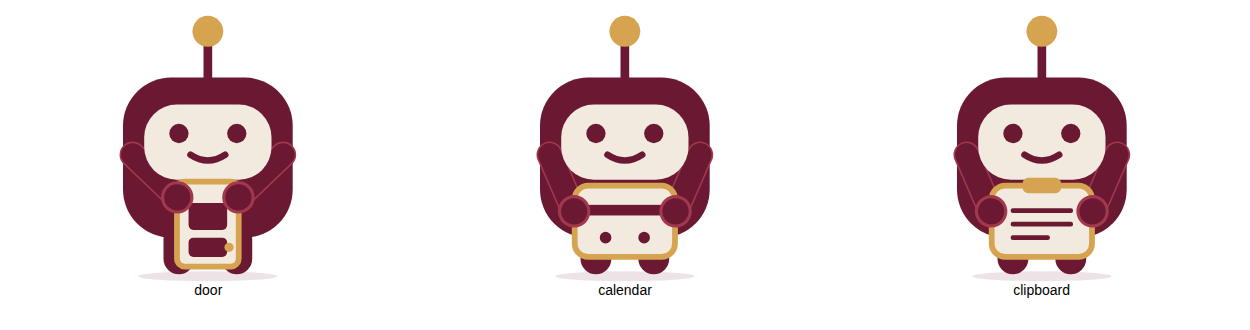
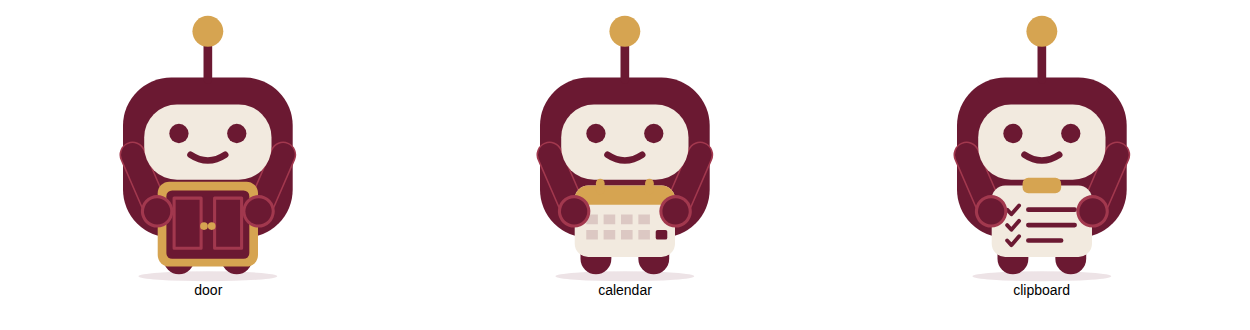
feat(mascot): implement the nine-pose sheet on the shared holding system
Idle relaxed, wave (right arm, happy eyes, gold sparks), attend (arms open, sparks), door/calendar/clipboard two-handed on one footprint,
key/wrench/badge held by the left carrier hand. Character, chest pill, mappings and behaviour unchanged; the sheet's RB logo and
proportions are not copied. Browser checks cover hand contact, grip continuity, uncovered faceplate and the greeting poses.

diff --git a/public/css/mascot.css b/public/css/mascot.css
@@ -31,62 +31,73 @@
 .rbm-hand { fill: var(--rb-color-maroon); opacity: 0; }
 .rbm-hand-edge { fill: var(--rb-color-accent); opacity: 0; }
 .rbm-limb-edge { stroke: var(--rb-color-accent); stroke-width: 13.6; stroke-linecap: round; opacity: 0; }
-.rbm-hand-ball { fill: var(--rb-color-gold); opacity: 0; }
 .rbm-mouth { fill: none; stroke: var(--rb-color-maroon); stroke-width: 3.4; stroke-linecap: round; }
 .rbm-frame { fill: none; stroke: var(--rb-color-gold); stroke-width: 3; }
 .rbm-gold-edge { stroke: var(--rb-color-gold); stroke-width: 3; }
 .rbm-line { fill: none; stroke: var(--rb-color-maroon); stroke-width: 2.4; stroke-linecap: round; }
-.rbm-keyring { fill: none; stroke: var(--rb-color-gold); stroke-width: 4; }
-.rbm-keyshaft { fill: none; stroke: var(--rb-color-gold); stroke-width: 4; stroke-linecap: round; }
+.rbm-arc { fill: none; stroke: var(--rb-color-maroon); stroke-width: 3.2; stroke-linecap: round; }
+.rbm-sparks { opacity: 0; }
+.rbm-sparks path { fill: none; stroke: var(--rb-color-gold); stroke-width: 3.2; stroke-linecap: round; }
+.rbm-panel { fill: none; stroke: var(--rb-color-accent); stroke-width: 1.6; stroke-linejoin: round; }
+.rbm-cells { fill: var(--rb-color-maroon); opacity: .16; }
+.rbm-tick { fill: none; stroke: var(--rb-color-maroon); stroke-width: 2; stroke-linecap: round; stroke-linejoin: round; }
+.rbm-keyring { fill: none; stroke: var(--rb-color-gold); stroke-width: 4.5; }
+.rbm-keyshaft { fill: none; stroke: var(--rb-color-gold); stroke-width: 4.5; stroke-linecap: round; }
 
-/* Pose parameters: clockwise degrees for each arm about its shoulder, and a tiny glance. Everything not listed stays at rest.
-   idle = arms out at the sides (the reference); wave raises the left arm (with the gold hand); attend is a neutral half-raised arm.
-   Holding poses use ONE system (arm length 32, tip = shoulder + 32 * (-sin a, cos a)):
-   - two-handed (calendar, clipboard: card x 44..96; door: x 54..86): both arms angle inward so the hands land on the object's side
-     edges: -23.4 / 23.4deg puts the hands at (43.7, 109.4) and (96.3, 109.4); -46.3 / 46.3deg puts them at (54.1, 102.1) and (85.9, 102.1);
-   - one-handed (key, tool, badge): the right hand is the carrier at (93.8, 108.1) (28.4deg) and the left arm rests at its idle angle. */
-.rb-mascot { --rbm-duration: 180ms; --rbm-ease: cubic-bezier(.4, 0, .2, 1); --rbm-l: 35deg; --rbm-r: -35deg; --rbm-ex: 0px; --rbm-smile: 1; }
-.rb-mascot[data-pose="attend"] { --rbm-r: -62deg; }
-.rb-mascot[data-pose="wave"] { --rbm-l: 156deg; --rbm-smile: 1.18; }
-.rb-mascot:is([data-pose="calendar"], [data-pose="clipboard"]) { --rbm-l: -23.4deg; --rbm-r: 23.4deg; }
-.rb-mascot[data-pose="door"] { --rbm-l: -46.3deg; --rbm-r: 46.3deg; }
-.rb-mascot:is([data-pose="key"], [data-pose="tool"], [data-pose="badge"]) { --rbm-r: 28.4deg; }
+/* Pose parameters (the nine compositions of docs/frontend/ReserveBot-Mascot-Poses.png): clockwise degrees for each arm about its
+   shoulder, and the mouth. Everything not listed stays at rest. Arm length 32; tip = shoulder + 32 * (-sin a, cos a).
+   - idle: arms relaxed at the sides, no hands shown.
+   - wave: the right arm raised (hand, gold sparks, happy eyes); attend: both arms opened wide (hands, sparks, happy eyes).
+   - two-handed (calendar, clipboard, door share one footprint, x 44..96): both arms angle inward so the hands land on the side
+     edges: -23.4 / 23.4deg puts them at (43.7, 109.4) and (96.3, 109.4);
+   - one-handed (key, tool, badge): the LEFT hand carries at (46.2, 108.1) (-28.4deg); the right arm rests at its idle angle. */
+.rb-mascot { --rbm-duration: 180ms; --rbm-ease: cubic-bezier(.4, 0, .2, 1); --rbm-l: 20deg; --rbm-r: -20deg; --rbm-smile: 1; }
+.rb-mascot[data-pose="wave"] { --rbm-r: -150deg; --rbm-smile: 1.18; }
+.rb-mascot[data-pose="attend"] { --rbm-l: 100deg; --rbm-r: -100deg; --rbm-smile: 1.18; }
+.rb-mascot:is([data-pose="calendar"], [data-pose="clipboard"], [data-pose="door"]) { --rbm-l: -23.4deg; --rbm-r: 23.4deg; }
+.rb-mascot:is([data-pose="key"], [data-pose="tool"], [data-pose="badge"]) { --rbm-l: -28.4deg; }
 
 .rbm-arm--l { transform: rotate(var(--rbm-l)); transform-origin: 31px 80px; }
 .rbm-arm--r { transform: rotate(var(--rbm-r)); transform-origin: 109px 80px; }
-.rbm-eyes { transform: translateX(var(--rbm-ex)); }
+.rbm-eyes--happy, .rbm-sparks { opacity: 0; }
 .rbm-mouth { transform: scaleX(var(--rbm-smile)); transform-origin: 70px 77px; }
 .rbm-prop { opacity: 0; }
 .rbm-pill { opacity: 1; }
 
-.rb-mascot[data-pose="wave"] .rbm-hand-ball,
 .rb-mascot[data-pose="door"] .rbm-prop--door,
 .rb-mascot[data-pose="calendar"] .rbm-prop--calendar,
 .rb-mascot[data-pose="clipboard"] .rbm-prop--clipboard,
 .rb-mascot[data-pose="key"] .rbm-prop--key,
 .rb-mascot[data-pose="tool"] .rbm-prop--tool,
 .rb-mascot[data-pose="badge"] .rbm-prop--badge { opacity: 1; }
-/* Hands: the right hand grips in every holding pose, the left only when the object is held with two hands. The accent edge (on the
-   hand and along the limb) lets an arm that lies over the same-coloured body stay readable. */
-.rb-mascot:is([data-pose="calendar"], [data-pose="clipboard"], [data-pose="door"], [data-pose="key"], [data-pose="tool"], [data-pose="badge"]) .rbm-arm--r :is(.rbm-hand, .rbm-hand-edge, .rbm-limb-edge),
-.rb-mascot:is([data-pose="calendar"], [data-pose="clipboard"], [data-pose="door"]) .rbm-arm--l :is(.rbm-hand, .rbm-hand-edge, .rbm-limb-edge) { opacity: 1; }
+/* Eyes and sparks: the greeting poses (wave, attend) smile with happy arcs and throw gold sparks. */
+.rb-mascot:is([data-pose="wave"], [data-pose="attend"]) .rbm-eyes--open { opacity: 0; }
+.rb-mascot:is([data-pose="wave"], [data-pose="attend"]) .rbm-eyes--happy { opacity: 1; }
+.rb-mascot:is([data-pose="wave"], [data-pose="attend"]) .rbm-sparks--r,
+.rb-mascot[data-pose="attend"] .rbm-sparks--l { opacity: 1; }
+/* Hands: two-handed poses show both, one-handed poses the left (carrier), wave the raised right hand and attend both open hands.
+   The accent edge (on the hand and along the limb) is only for holding poses, where an arm lies over the same-coloured body. */
+.rb-mascot:is([data-pose="calendar"], [data-pose="clipboard"], [data-pose="door"]) :is(.rbm-hand, .rbm-hand-edge, .rbm-limb-edge),
+.rb-mascot:is([data-pose="key"], [data-pose="tool"], [data-pose="badge"]) .rbm-arm--l :is(.rbm-hand, .rbm-hand-edge, .rbm-limb-edge),
+.rb-mascot[data-pose="wave"] .rbm-arm--r .rbm-hand,
+.rb-mascot[data-pose="attend"] .rbm-hand { opacity: 1; }
 .rb-mascot:is([data-pose="door"], [data-pose="key"], [data-pose="tool"], [data-pose="badge"]) .rbm-pill { opacity: 0; }
 
 /* Only transform and opacity move, and only for a short moment when the pose changes. The feet, body, head and footer never
    move, so the figure stays planted, and there is no idle movement at all. */
-.rbm-arm, .rbm-eyes, .rbm-mouth { transition: transform var(--rbm-duration) var(--rbm-ease); }
-.rbm-prop, .rbm-hand, .rbm-hand-edge, .rbm-limb-edge, .rbm-hand-ball, .rbm-pill { transition: opacity var(--rbm-duration) var(--rbm-ease); }
+.rbm-arm, .rbm-mouth { transition: transform var(--rbm-duration) var(--rbm-ease); }
+.rbm-prop, .rbm-hand, .rbm-hand-edge, .rbm-limb-edge, .rbm-pill, .rbm-eyes--open, .rbm-eyes--happy, .rbm-sparks { transition: opacity var(--rbm-duration) var(--rbm-ease); }
 @media (prefers-reduced-motion: no-preference) {
   /* One friendly wave (two swings) when the wave pose is chosen by hovering; mascot.js sets data-ready only after the first
      frame, so arriving on the Home page does not wave on its own. */
-  .rb-mascot[data-ready][data-pose="wave"] .rbm-arm--l { animation: rbm-wave 520ms var(--rbm-ease) var(--rbm-duration) 1; }
+  .rb-mascot[data-ready][data-pose="wave"] .rbm-arm--r { animation: rbm-wave 520ms var(--rbm-ease) var(--rbm-duration) 1; }
 }
 @keyframes rbm-wave {
-  25% { transform: rotate(calc(var(--rbm-l) - 18deg)); }
-  50% { transform: rotate(var(--rbm-l)); }
-  75% { transform: rotate(calc(var(--rbm-l) - 18deg)); }
+  25% { transform: rotate(calc(var(--rbm-r) + 18deg)); }
+  50% { transform: rotate(var(--rbm-r)); }
+  75% { transform: rotate(calc(var(--rbm-r) + 18deg)); }
 }
 /* Reduced motion: poses still change (they are useful), but instantly and without any arm movement. */
 @media (prefers-reduced-motion: reduce) {
-  .rbm-arm, .rbm-eyes, .rbm-mouth, .rbm-prop, .rbm-hand, .rbm-hand-edge, .rbm-limb-edge, .rbm-hand-ball, .rbm-pill { transition: none; animation: none; }
+  .rbm-arm, .rbm-eyes, .rbm-mouth, .rbm-prop, .rbm-hand, .rbm-hand-edge, .rbm-limb-edge, .rbm-pill, .rbm-eyes--open, .rbm-eyes--happy, .rbm-sparks { transition: none; animation: none; }
 }

diff --git a/resources/views/components/ui/mascot.blade.php b/resources/views/components/ui/mascot.blade.php
@@ -1,22 +1,21 @@
 @props(['pose' => 'idle'])
-{{-- ReserveBot's sidebar mascot: purely decorative, no behaviour of its own. Built from docs/frontend/ReserveBot-Mascot.jpg:
-     one rounded maroon head-and-body, a cream faceplate with two round eyes and a small smile, a short antenna with a gold
-     tip, capsule arms, stubby legs and a gold chest pill. Every pose is that same figure; a pose only changes the arm
-     angles, a small prop, and (barely) where the eyes look. css/mascot.css does all of that from data-pose. The initial pose
-     is the current page's (passed in by the navigation partial, which owns the page-to-pose mapping); public/js/mascot.js
-     only swaps data-pose when a sidebar link is hovered or keyboard-focused.
-     Poses: idle, attend (neutral), wave, door, calendar, clipboard, key, tool, badge. Hidden from assistive technology,
-     never focusable, never announced.
-     Geometry (viewBox 200x140, character centred on x=100 via the translate): body 26..114 x 40..123, shoulders (31,80)
-     and (109,80), arm length 32, feet on y=142.
-     One holding system. Limbs are drawn over the body but under the faceplate (maroon on maroon is invisible, so idle still reads as
-     the reference's arms behind the body), and every arm ends in a hand (.rbm-hand, r 6.8). The hand is a second group with the same classes and
-     angle variable as the limb, drawn after the prop, so it rotates with the arm (a grip cannot detach) and sits on the object's edge.
-     Two-handed (large objects: calendar, clipboard, door): the object is centred on the torso and both hands sit on its side
-     edges (hand centres are the arm tips at the pose angle, e.g. calendar 23.4deg inward puts them on x=44 and x=96).
-     One-handed (small objects: key, tool, badge): the right hand is the carrier, always at the same anchor (94,108) (arm
-     28.4deg), the object passes through or ends at that anchor; the left arm rests at its idle angle.
-     The pose angles live in css/mascot.css and were derived from tip = shoulder + 32 * (-sin a, cos a). --}}
+{{-- ReserveBot's sidebar mascot: purely decorative, no behaviour of its own. The character comes from docs/frontend/ReserveBot-Mascot.jpg
+     (rounded maroon head-and-body, cream faceplate, two round eyes and a small smile, short antenna with a gold tip, capsule arms,
+     stubby legs, gold chest pill) and the nine pose compositions from docs/frontend/ReserveBot-Mascot-Poses.png (without that
+     sheet's RB belly logo or its changed proportions). Every pose is that same figure; a pose only changes the arm angles, which
+     hands show, a prop, the eyes (round, or happy arcs) and a few gold sparks. css/mascot.css does that from data-pose. The
+     initial pose is the current page's (passed in by the navigation partial, which owns the page-to-pose mapping);
+     public/js/mascot.js only swaps data-pose when a sidebar link is hovered or keyboard-focused.
+     Poses: idle, attend (welcome), wave, door, calendar, clipboard, key, tool, badge. Hidden from assistive technology, never
+     focusable, never announced.
+     Geometry (viewBox 200x140, character centred on x=100 via the translate): body 26..114 x 40..123, shoulders (31,80) and
+     (109,80), arm length 32, feet on y=142.
+     One holding system. Limbs are drawn over the body but under the faceplate (maroon on maroon is invisible, so idle still reads
+     like the reference's capsule arms), and every arm ends in a hand (.rbm-hand, r 6.8). The hand is a second group with the same
+     classes and angle variable as the limb, drawn after the props, so it rotates with the arm (a grip cannot detach) and sits on
+     the object's edge. Two-handed (calendar, clipboard, door: one shared footprint x 44..96): both hands on the side edges. One-handed
+     (key, tool, badge): the LEFT hand carries, always at the anchor (46.2,108.1), and key and wrench share one axis through it
+     (head/ring centre (30,88), direction (0.627, 0.779)). Tip = shoulder + 32 * (-sin a, cos a); the angles live in css/mascot.css. --}}
 <div class="rb-mascot" data-rb-mascot data-pose="{{ $pose }}" aria-hidden="true">
   <div class="rb-mascot__stage">
     <svg class="rb-mascot__art" viewBox="0 6 200 140" width="200" height="140" focusable="false" aria-hidden="true">
@@ -33,7 +32,6 @@
         <g class="rbm-arm rbm-arm--l">
           <line class="rbm-limb-edge" x1="31" y1="80" x2="31" y2="112"/>
           <line class="rbm-limb" x1="31" y1="80" x2="31" y2="112"/>
-          <circle class="rbm-hand-ball" cx="31" cy="115" r="9"/>
         </g>
         <g class="rbm-arm rbm-arm--r">
           <line class="rbm-limb-edge" x1="109" y1="80" x2="109" y2="112"/>
@@ -41,47 +39,57 @@
         </g>
 
         <rect class="rbm-cream" x="37" y="54" width="66" height="39" rx="17"/>
-        <g class="rbm-eyes">
+        <g class="rbm-eyes rbm-eyes--open">
           <circle class="rbm-maroon" cx="55" cy="69" r="5"/>
           <circle class="rbm-maroon" cx="85" cy="69" r="5"/>
+        </g>
+        <g class="rbm-eyes rbm-eyes--happy">
+          <path class="rbm-arc" d="M49.5 71.5Q55 63.5 60.5 71.5M79.5 71.5Q85 63.5 90.5 71.5"/>
         </g>
         <path class="rbm-mouth" d="M61 80Q70 86 79 80"/>
 
         <line class="rbm-aerial" x1="70" y1="16" x2="70" y2="41"/>
         <circle class="rbm-gold" cx="70" cy="16" r="8"/>
 
-        {{-- Held objects, centred on the torso (two-handed) or around the right-hand anchor (94,108) (one-handed) --}}
+        {{-- Gold sparks of the greeting poses: right side for wave, both sides for attend --}}
+        <g class="rbm-sparks rbm-sparks--r"><path d="M128 40l2.5-8M135 45l6-3.5M137 54l7 .5"/></g>
+        <g class="rbm-sparks rbm-sparks--l" transform="translate(140 0) scale(-1 1)"><path d="M128 40l2.5-8M135 45l6-3.5M137 54l7 .5"/></g>
+
+        {{-- Held objects: centred on the torso (two-handed) or on the left-hand axis (one-handed) --}}
         <g class="rbm-prop rbm-prop--door">
-          <rect class="rbm-cream rbm-gold-edge" x="54" y="94" width="32" height="44" rx="4"/>
-          <rect class="rbm-maroon" x="60" y="105" width="20" height="14" rx="2.5"/>
-          <rect class="rbm-maroon" x="60" y="123" width="20" height="10" rx="2.5"/>
-          <circle class="rbm-gold" cx="81" cy="128" r="2.4"/>
+          <rect class="rbm-gold" x="44" y="94" width="52" height="44" rx="6"/>
+          <rect class="rbm-maroon" x="48.5" y="98.5" width="43" height="35.5" rx="3"/>
+          <path class="rbm-panel" d="M52.5 102.5h14v26h-14zM73.5 102.5h14v26h-14z"/>
+          <circle class="rbm-gold" cx="68" cy="117" r="2"/>
+          <circle class="rbm-gold" cx="72" cy="117" r="2"/>
         </g>
         <g class="rbm-prop rbm-prop--calendar">
           <rect class="rbm-cream" x="44" y="96" width="52" height="37" rx="7"/>
-          <rect class="rbm-maroon" x="45.5" y="106" width="49" height="5.5"/>
-          <circle class="rbm-maroon" cx="60" cy="123" r="3"/>
-          <circle class="rbm-maroon" cx="80" cy="123" r="3"/>
-          <rect class="rbm-frame" x="44" y="96" width="52" height="37" rx="7"/>
+          <path class="rbm-gold" d="M44 103a7 7 0 0 1 7-7h38a7 7 0 0 1 7 7v3H44z"/>
+          <rect class="rbm-gold" x="55" y="92.5" width="4.5" height="8" rx="2.25"/>
+          <rect class="rbm-gold" x="80.5" y="92.5" width="4.5" height="8" rx="2.25"/>
+          <path class="rbm-cells" d="M50 111h6v5h-6zM59 111h6v5h-6zM68 111h6v5h-6zM77 111h6v5h-6zM50 119h6v5h-6zM59 119h6v5h-6zM68 119h6v5h-6zM77 119h6v5h-6z"/>
+          <rect class="rbm-maroon" x="86" y="119" width="6" height="5" rx="1"/>
         </g>
         <g class="rbm-prop rbm-prop--clipboard">
           <rect class="rbm-cream" x="44" y="96" width="52" height="37" rx="7"/>
-          <path class="rbm-line" d="M55 109h30M55 116h30M55 123h18"/>
-          <rect class="rbm-frame" x="44" y="96" width="52" height="37" rx="7"/>
+          <path class="rbm-tick" d="M52 108.5l2.2 2.4 4-4.6M52 116.5l2.2 2.4 4-4.6M52 124.5l2.2 2.4 4-4.6"/>
+          <path class="rbm-line" d="M63 108.5h24M63 116.5h24M63 124.5h17"/>
           <rect class="rbm-gold" x="60" y="92" width="20" height="8" rx="3"/>
         </g>
         <g class="rbm-prop rbm-prop--badge">
-          <rect class="rbm-cream rbm-gold-edge" x="68" y="97" width="26" height="35" rx="5"/>
-          <rect class="rbm-gold" x="76" y="94.5" width="10" height="5" rx="2.5"/>
-          <circle class="rbm-maroon" cx="81" cy="111" r="5"/>
-          <path class="rbm-maroon" d="M72.5 127a8.5 7 0 0 1 17 0z"/>
+          <rect class="rbm-cream" x="44" y="99" width="40" height="30" rx="5"/>
+          <rect class="rbm-gold" x="57" y="95.5" width="14" height="6" rx="3"/>
+          <circle class="rbm-maroon" cx="59.5" cy="111" r="4.2"/>
+          <path class="rbm-maroon" d="M53 124a6.5 5.5 0 0 1 13 0z"/>
+          <path class="rbm-line" d="M69.5 110h10M69.5 116h10"/>
         </g>
         <g class="rbm-prop rbm-prop--key">
-          <circle class="rbm-keyring" cx="59" cy="104.5" r="7"/>
-          <path class="rbm-keyshaft" d="M66 105.2L104 109.5M99 109v7M104 109.5v5"/>
+          <circle class="rbm-keyring" cx="30" cy="88" r="7.6"/>
+          <path class="rbm-keyshaft" d="M35.6 95L57.6 122.3M51.3 114.5l4.7-3.8M55.1 119.2l4.7-3.8"/>
         </g>
         <g class="rbm-prop rbm-prop--tool">
-          <g transform="translate(81.7 105.3) rotate(-76.8)">
+          <g transform="translate(38.15 98.13) rotate(-38.8) scale(1.3)">
             <rect class="rbm-cream" x="-3" y="-6" width="6" height="27" rx="3"/>
             <circle class="rbm-cream" cx="0" cy="-10" r="8.5"/>
             <rect class="rbm-maroon" x="-3.2" y="-21" width="6.4" height="11"/>
@@ -89,7 +97,7 @@
         </g>
 
         {{-- Hands: the tip of each arm, repeated here so it is drawn ON TOP of the held object. Same group classes and the same
-             angle variable as the limb, so limb and hand turn as one and a grip cannot detach. Shown only in holding poses. --}}
+             angle variable as the limb, so limb and hand turn as one and a grip cannot detach. --}}
         <g class="rbm-arm rbm-arm--l rbm-hands">
           <circle class="rbm-hand-edge" cx="31" cy="112" r="8.4"/>
           <circle class="rbm-hand" cx="31" cy="112" r="6.8"/>

diff --git a/tests/Feature/Frontend/MascotBrandTest.php b/tests/Feature/Frontend/MascotBrandTest.php
@@ -88,11 +88,14 @@ final class MascotBrandTest extends TestCase
         foreach (['attend', 'wave', 'door'] as $pose) {
             $this->assertStringContainsString("data-pose=\"$pose\"", $css, "$pose pose parameters");
         }
-        // One holding system: two-handed poses angle both arms inward onto the object's side edges, one-handed poses share one carrier hand.
-        $this->assertStringContainsString('.rb-mascot:is([data-pose="calendar"], [data-pose="clipboard"]) { --rbm-l: -23.4deg; --rbm-r: 23.4deg; }', $css);
-        $this->assertStringContainsString('.rb-mascot[data-pose="door"] { --rbm-l: -46.3deg; --rbm-r: 46.3deg; }', $css);
-        $this->assertStringContainsString('.rb-mascot:is([data-pose="key"], [data-pose="tool"], [data-pose="badge"]) { --rbm-r: 28.4deg; }', $css);
-        $this->assertStringContainsString('.rbm-arm--r :is(.rbm-hand, .rbm-hand-edge, .rbm-limb-edge)', $css, 'hands are shown only in holding poses');
+        // One holding system: two-handed poses (calendar, clipboard, door share one footprint) angle both arms inward onto the side
+        // edges; one-handed poses (key, tool, badge) share one LEFT carrier hand; the greeting poses raise the right arm / open both.
+        $this->assertStringContainsString('.rb-mascot:is([data-pose="calendar"], [data-pose="clipboard"], [data-pose="door"]) { --rbm-l: -23.4deg; --rbm-r: 23.4deg; }', $css);
+        $this->assertStringContainsString('.rb-mascot:is([data-pose="key"], [data-pose="tool"], [data-pose="badge"]) { --rbm-l: -28.4deg; }', $css);
+        $this->assertStringContainsString('.rb-mascot[data-pose="wave"] { --rbm-r: -150deg;', $css);
+        $this->assertStringContainsString('.rb-mascot[data-pose="attend"] { --rbm-l: 100deg; --rbm-r: -100deg;', $css);
+        $this->assertStringContainsString('--rbm-l: 20deg; --rbm-r: -20deg;', $css, 'idle: relaxed arms');
+        $this->assertStringContainsString('.rbm-arm--l :is(.rbm-hand, .rbm-hand-edge, .rbm-limb-edge)', $css, 'one-handed poses show only the carrier hand');
         // One body, built once: head-and-body silhouette, faceplate, legs, antenna, chest pill and two eyes, however many poses.
         $this->assertSame(1, substr_count($svg, 'class="rbm-maroon" x="26" y="40" width="88" height="83" rx="25"'), 'one rounded head/body silhouette');
         $this->assertSame(1, substr_count($svg, 'class="rbm-cream" x="37" y="54" width="66" height="39" rx="17"'), 'one cream faceplate');
@@ -100,6 +103,9 @@ final class MascotBrandTest extends TestCase
         $this->assertSame(2, substr_count($svg, 'cy="69" r="5"'), 'two simple round eyes');
         $this->assertSame(1, substr_count($svg, 'class="rbm-gold rbm-pill"'), 'one gold chest accent');
         $this->assertSame(1, substr_count($svg, 'class="rbm-aerial"'), 'one short antenna');
+        $this->assertStringNotContainsString('>RB<', $svg, 'the pose sheet RB belly logo is not part of the character');
+        $this->assertStringContainsString('rbm-eyes--happy', $svg, 'happy eyes for the greeting poses');
+        $this->assertStringNotContainsString('hand-ball', $svg, 'the old gold wave hand is gone: the raised arm ends in the shared hand');
         $this->assertSame(4, substr_count($svg, 'class="rbm-arm '), 'two limbs and two hands, all posed by the same two angle variables');
         $this->assertSame(2, substr_count($svg, 'rbm-arm rbm-arm--l rbm-hands') + substr_count($svg, 'rbm-arm rbm-arm--r rbm-hands'), 'each hand turns with its own arm');
         $this->assertSame(2, substr_count($svg, 'class="rbm-hand" '), 'one hand per arm, the same size');

diff --git a/docs/frontend/MASCOT_AND_TYPOGRAPHY.md b/docs/frontend/MASCOT_AND_TYPOGRAPHY.md
@@ -7,12 +7,17 @@ Two small, independent changes. Neither needs the global motion layer, view tran
   head/body, cream faceplate, two round eyes, a small smile, antenna with a gold tip, capsule arms, stubby legs, gold chest pill.
   Nine poses share that figure; a pose only changes arm angles, one prop and a 1.6px glance. Side-by-side proof:
   `docs/frontend/mascot-evidence/`.
+- **Nine poses from `docs/frontend/ReserveBot-Mascot-Poses.png`** (compositions only; its RB belly logo and its changed proportions are
+  not used, the gold chest pill stays): idle (relaxed arms), wave (right arm raised, happy eyes, gold sparks), door / calendar /
+  clipboard (held in both hands on one shared footprint), key / wrench / ID badge (held in the left hand), attend (arms opened wide, happy
+  eyes, sparks, no object). Differences from the sheet: attend has no belly check (it is a pose without an accessory), the objects are
+  simplified for 90px, and the arms are straight capsules (the sheet bends them).
 - **One holding system**: limbs are drawn over the body and under the faceplate; each arm has a matching hand group (same classes and
-  angle variable, drawn after the props) so a grip turns with its arm and cannot detach. Two-handed objects (calendar, clipboard, door) sit
-  on the torso with both hands on the side edges (arms -23.4/23.4deg, door -46.3/46.3deg); one-handed objects (key, tool, badge) share one
-  carrier hand at (94,108) (right arm 28.4deg) while the left arm rests. A thin accent edge on hands and limbs keeps an arm readable over
-  the same-coloured body. Idle, wave and attend show no hands and still match the reference; the calendar differs from the reference
-  only in being held. Evidence: `all-poses-3x.png`, `door-calendar-clipboard-closeup.png`, `key-tool-badge-closeup.png`.
+  angle variable, drawn after the props) so a grip turns with its arm and cannot detach. Two-handed objects sit on the torso with both
+  hands on the side edges (arms -23.4/23.4deg); one-handed objects share one carrier hand at (46.2,108.1) (left arm -28.4deg) and key and
+  wrench share one axis through it while the right arm rests. A thin accent edge on hands and limbs keeps an arm readable over the
+  same-coloured body. Evidence: `nine-pose-vs-reference.png`, `all-poses-3x.png`, `door-calendar-clipboard-closeup.png`,
+  `key-tool-badge-closeup.png`, `mascot-all-poses-actual-size.png`, `sidebar-footer-actual-size.png`, `mascot-reference-vs-new.png`.
 - **Pose mapping** (single source, `layouts/partials/navigation.blade.php`, keyed by nav icon): Home wave, Free rooms door, Book / Today
   calendar, My bookings / Requests clipboard, Manage rooms key, Equipment tool, Accounts badge, anything unmapped `attend` (neutral).
   **College Admin** has one link ("Departments", icon `accounts`), so it gets the badge pose with no special case. Pages with no active
